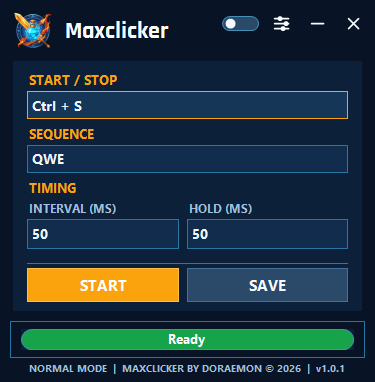
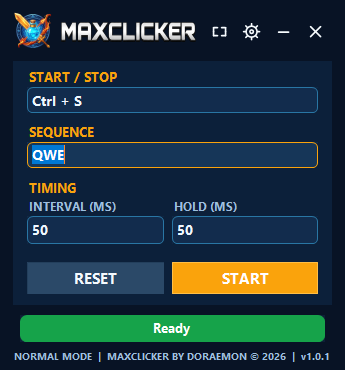
Add MaxPerformance download support and polish download buttons
Wires MaxPerformance into the release-fetching config (GitHub repo +
remote-config URL, Backblaze mirror pattern) and gives its Benchmark page
real Download/Mirror buttons via ReleasePanel, instead of only linking out
to MaxMacro. Excludes MaxPerformance from the Home page's two-app split
hero and nav's product-list map (it's a companion tool, not a main app -
both already have a dedicated entry point). Fixes the Mirror button's 94%
opacity reading as broken/transparent against brighter background art, and
adds a keyboard focus-visible style and loading shimmer to DownloadButton.
Adds a Settings screenshot to MaxClicker's tray/startup feature card.

diff --git a/src/components/ReleasePanel/DownloadButton.css b/src/components/ReleasePanel/DownloadButton.css
@@ -39,12 +39,59 @@
   transform: translateY(-2px) scale(1.02);
 }
 
+/* Matches the theme accent instead of relying on the browser's default blue
+   ring, which reads jarring against these dark gradient buttons. */
+.dl-button:focus-visible {
+  outline: 2px solid var(--accent, #fff);
+  outline-offset: 3px;
+}
+
 .dl-button[data-blob-failed="1"] {
   opacity: 0.85;
 }
 
 .dl-button[data-pending="1"] {
   opacity: 0.88;
+}
+
+.dl-button[data-disabled="1"] {
+  cursor: not-allowed;
+  opacity: 0.58;
+  pointer-events: auto;
+}
+
+.dl-button[data-disabled="1"]::after {
+  display: none;
+}
+
+.dl-button[data-disabled="1"]:hover {
+  transform: none;
+}
+
+/* ReleasePanel's initial loading skeleton renders buttons with both
+   pending and disabled set - a shimmer reads as "still loading" at a
+   glance, where the flat dimmed color it replaces was easy to mistake for
+   a broken/disabled control. */
+.dl-button[data-pending="1"][data-disabled="1"] {
+  background: linear-gradient(
+    90deg,
+    rgba(255, 255, 255, 0.05),
+    rgba(255, 255, 255, 0.14),
+    rgba(255, 255, 255, 0.05)
+  );
+  background-size: 200% 100%;
+  border-color: rgba(255, 255, 255, 0.1);
+  box-shadow: none;
+  animation: dl-skeleton-shimmer 1.4s ease-in-out infinite;
+}
+
+@keyframes dl-skeleton-shimmer {
+  0% {
+    background-position: 200% 0;
+  }
+  100% {
+    background-position: -200% 0;
+  }
 }
 
 .dl-button-caption {
@@ -82,7 +129,7 @@
 }
 
 .dl-button-mirror {
-  background: linear-gradient(180deg, rgba(250, 163, 12, 0.94), rgba(216, 120, 13, 0.94));
+  background: linear-gradient(180deg, rgb(250, 163, 12), rgb(216, 120, 13));
   box-shadow: 0 12px 26px rgba(250, 163, 12, 0.22);
 }
 

diff --git a/src/config/products.ts b/src/config/products.ts
@@ -24,18 +24,25 @@ import type { ProductReleaseConfig } from "../services/releaseFetcher";
 // below, instead of the repo name being hardcoded in multiple places.
 const MAXCLICKER_REPO = import.meta.env.VITE_MAXCLICKER_REPO || "crossgozon/maxclicker-download";
 const MAXMACRO_REPO = import.meta.env.VITE_MAXMACRO_REPO || "crossgozon/maxmacro-download";
+const MAXPERFORMANCE_REPO = import.meta.env.VITE_MAXPERFORMANCE_REPO || "crossgozon/maxperformance-download";
 const MAXCLICKER_REMOTE_CONFIG_URL =
   import.meta.env.VITE_MAXCLICKER_REMOTE_CONFIG_URL ||
   "https://api.maxie-apps.online/api/remote-config";
 const MAXMACRO_REMOTE_CONFIG_URL =
   import.meta.env.VITE_MAXMACRO_REMOTE_CONFIG_URL ||
   "https://api.maxmacro.maxie-apps.online/api/remote-config";
+// MaxPerformance has no dedicated Worker subdomain (unlike MaxMacro) - it
+// shares MaxClicker's api.maxie-apps.online Worker, disambiguated by the
+// ?appId= query param the Worker already reads (see resolveRequestAppIdOverride).
+const MAXPERFORMANCE_REMOTE_CONFIG_URL =
+  import.meta.env.VITE_MAXPERFORMANCE_REMOTE_CONFIG_URL ||
+  "https://api.maxie-apps.online/api/remote-config?appId=maxperformance";
 
 function rawGithubUrl(repo: string, path: string) {
   return `https://raw.githubusercontent.com/${repo}/main/${path}`;
 }
 
-export type ProductSlug = "maxclicker" | "maxmacro";
+export type ProductSlug = "maxclicker" | "maxmacro" | "maxperformance";
 
 export interface ProductFeature {
   title: string;
@@ -116,6 +123,7 @@ export const products: Record<ProductSlug, ProductConfig> = {
         title: "Tray integration & startup options",
         description: "Launch at Windows startup, start minimized to tray, and choose whether minimize/close send the app to the tray instead of closing it.",
         icon: faDesktop,
+        images: [{ src: "/assets/maxclicker/screenshots/settings.png", caption: "Settings" }],
       },
       {
         title: "Run diagnostics",
@@ -241,6 +249,30 @@ export const products: Record<ProductSlug, ProductConfig> = {
       excludeAssetRegex: /updater/i,
       mirrorCommentTag: "MAXMACRO_RELEASE_MIRRORS",
       mirrorUrlPattern: /^https:\/\/backblaze\.maxmacro\.maxie-apps\.online\/maxmacro\/Release\/[^/]+\/[^/]+\.zip$/i,
+    },
+  },
+  // MaxPerformance's own page (src/pages/Benchmark) renders its own hero/
+  // highlight layout rather than going through ProductDownloadPage, so this
+  // entry only needs to carry what ReleasePanel actually reads (name,
+  // release config) - features/systemRequirements stay empty on purpose.
+  maxperformance: {
+    slug: "maxperformance",
+    name: "MaxPerformance",
+    tagline: "Official Build",
+    description:
+      "MaxPerformance captures real keyboard and mouse input timing, scores stability and warm-up accuracy, and compares runs side by side.",
+    heroHook:
+      "Millisecond-precise input capture and side-by-side run comparison, built for tuning macro timing.",
+    theme: "maxperformance",
+    iconUrl: "/assets/maxperformance/icon.png",
+    wordmarkUrl: "/assets/maxperformance/header_title.png",
+    features: [],
+    release: {
+      repo: MAXPERFORMANCE_REPO,
+      remoteConfigUrls: [MAXPERFORMANCE_REMOTE_CONFIG_URL],
+      assetNameRegex: /^MaxPerformance\..+\.zip$/i,
+      mirrorCommentTag: "MAXPERFORMANCE_RELEASE_MIRRORS",
+      mirrorUrlPattern: /^https:\/\/backblaze\.maxie-apps\.online\/maxperformance\/Release\/[^/]+\/[^/]+\.zip$/i,
     },
   },
 };

diff --git a/src/components/ReleasePanel/ReleasePanel.tsx b/src/components/ReleasePanel/ReleasePanel.tsx
@@ -15,13 +15,10 @@ interface ReleasePanelProps {
 export function ReleasePanel({ product, showNotes = false }: ReleasePanelProps) {
   const state = useLatestRelease(product.release);
 
-  // Buttons render immediately and are clickable right away, pointed at the
-  // GitHub releases page as a working fallback - the release API (slow, and
-  // occasionally rate-limited) is only there to upgrade them in place to the
-  // exact per-version asset + mirror once it resolves, so the user is never
-  // stuck staring at empty space or a dead button while it loads.
+  // Buttons render immediately for layout stability, but stay disabled until
+  // the exact per-version asset URL resolves. We intentionally avoid sending
+  // download clicks to the GitHub release page.
   if (state.status === "loading") {
-    const fallbackUrl = `https://github.com/${product.release.repo}/releases/latest`;
     return (
       <div className="release-panel release-panel-loading" aria-live="polite">
         <div className="release-stats">
@@ -29,8 +26,8 @@ export function ReleasePanel({ product, showNotes = false }: ReleasePanelProps) 
           <div className="release-skeleton-line release-skeleton-stat" />
         </div>
         <div className="release-actions">
-          <DownloadButton url={fallbackUrl} label={`Download ${product.name}`} kind="github" pending />
-          <DownloadButton url={fallbackUrl} label="Mirror Download" kind="mirror" pending />
+          <DownloadButton url="" label={`Download ${product.name}`} kind="github" pending disabled />
+          <DownloadButton url="" label="Mirror Download" kind="mirror" pending disabled />
         </div>
       </div>
     );
@@ -39,15 +36,7 @@ export function ReleasePanel({ product, showNotes = false }: ReleasePanelProps) 
   if (state.status === "error") {
     return (
       <div className="release-panel release-panel-error" role="alert">
-        <p>Could not read the latest release right now. Check back later or view it directly on GitHub.</p>
-        <a
-          className="btn btn-secondary"
-          href={`https://github.com/${product.release.repo}/releases/latest`}
-          target="_blank"
-          rel="noopener noreferrer"
-        >
-          View on GitHub
-        </a>
+        <p>Could not read the latest release right now. Check back later.</p>
       </div>
     );
   }
@@ -56,14 +45,6 @@ export function ReleasePanel({ product, showNotes = false }: ReleasePanelProps) 
     return (
       <div className="release-panel release-panel-empty">
         <p>No {product.name} release has been published yet. Check back soon.</p>
-        <a
-          className="btn btn-secondary"
-          href={`https://github.com/${product.release.repo}/releases`}
-          target="_blank"
-          rel="noopener noreferrer"
-        >
-          View releases on GitHub
-        </a>
       </div>
     );
   }

diff --git a/src/components/Layout/Nav.tsx b/src/components/Layout/Nav.tsx
@@ -41,17 +41,23 @@ export function Nav() {
             <FontAwesomeIcon icon={faHouse} />
             Home
           </NavLink>
-          {productList.map((product) => (
-            <NavLink
-              key={product.slug}
-              to={`/${product.slug}`}
-              className={navLinkClass}
-              onClick={() => setMenuOpen(false)}
-            >
-              <FontAwesomeIcon icon={faGamepad} />
-              {product.name}
-            </NavLink>
-          ))}
+          {/* MaxPerformance is deliberately excluded here - it has its own
+              dedicated link below (chart icon fits it better than the
+              gamepad icon used for the automation apps), so including it
+              in this product-registry map would render it twice. */}
+          {productList
+            .filter((product) => product.slug !== "maxperformance")
+            .map((product) => (
+              <NavLink
+                key={product.slug}
+                to={`/${product.slug}`}
+                className={navLinkClass}
+                onClick={() => setMenuOpen(false)}
+              >
+                <FontAwesomeIcon icon={faGamepad} />
+                {product.name}
+              </NavLink>
+            ))}
           <NavLink to="/maxperformance" className={navLinkClass} onClick={() => setMenuOpen(false)}>
             <FontAwesomeIcon icon={faChartLine} />
             MaxPerformance

diff --git a/src/components/ReleasePanel/DownloadButton.tsx b/src/components/ReleasePanel/DownloadButton.tsx
@@ -15,6 +15,7 @@ interface DownloadButtonProps {
    * instead of navigating to it).
    */
   pending?: boolean;
+  disabled?: boolean;
 }
 
 /**
@@ -26,7 +27,7 @@ interface DownloadButtonProps {
 /** How long a click made while still pending waits for the real URL before giving up and using the fallback. */
 const CLICK_GRACE_MS = 4000;
 
-export function DownloadButton({ url, fileName, label, kind, pending = false }: DownloadButtonProps) {
+export function DownloadButton({ url, fileName, label, kind, pending = false, disabled = false }: DownloadButtonProps) {
   const [blobUrl, setBlobUrl] = useState<string | null>(null);
   const [blobFailed, setBlobFailed] = useState(false);
   const [awaiting, setAwaiting] = useState(false);
@@ -39,7 +40,7 @@ export function DownloadButton({ url, fileName, label, kind, pending = false }: 
   // click against it, only falling back if the API genuinely doesn't
   // resolve in time.
   useEffect(() => {
-    if (!awaiting) {
+    if (!awaiting || disabled) {
       return;
     }
 
@@ -55,9 +56,14 @@ export function DownloadButton({ url, fileName, label, kind, pending = false }: 
     }, CLICK_GRACE_MS);
 
     return () => clearTimeout(timer);
-  }, [awaiting, pending, url]);
+  }, [awaiting, pending, url, disabled]);
 
   function handleClick(event: React.MouseEvent<HTMLAnchorElement>) {
+    if (disabled) {
+      event.preventDefault();
+      return;
+    }
+
     if (!pending || awaiting) {
       return;
     }
@@ -66,7 +72,7 @@ export function DownloadButton({ url, fileName, label, kind, pending = false }: 
   }
 
   useEffect(() => {
-    if (pending) {
+    if (pending || disabled) {
       return;
     }
 
@@ -102,19 +108,20 @@ export function DownloadButton({ url, fileName, label, kind, pending = false }: 
         revokeRef.current = null;
       }
     };
-  }, [url, pending]);
+  }, [url, pending, disabled]);
 
   return (
     <a
       ref={anchorRef}
       className={`dl-button dl-button-${kind}`}
-      href={pending ? url : blobUrl ?? url}
-      download={pending ? undefined : fileName}
-      target={pending ? "_blank" : undefined}
-      rel={pending ? "noopener noreferrer" : "noopener"}
+      href={disabled ? undefined : blobUrl ?? url}
+      download={pending || disabled ? undefined : fileName}
+      rel="noopener"
       onClick={handleClick}
       aria-busy={awaiting || undefined}
+      aria-disabled={disabled || undefined}
       data-pending={pending ? "1" : undefined}
+      data-disabled={disabled ? "1" : undefined}
       data-awaiting={awaiting ? "1" : undefined}
       data-blob-ready={blobUrl ? "1" : undefined}
       data-blob-failed={blobFailed ? "1" : undefined}

diff --git a/src/pages/Home/Home.tsx b/src/pages/Home/Home.tsx
@@ -12,9 +12,14 @@ import "./Home.css";
 // and holding off on mounting the animated content until they're actually
 // ready means "mount = animate" stays true - the reveal only plays once
 // there's something real to reveal.
+// MaxPerformance is a sub-application (a companion benchmarking tool, not a
+// main app on its own), so it's excluded from the Home page's two-door
+// split hero - that layout is built for exactly two peer apps.
+const mainApps = productList.filter((product) => product.slug !== "maxperformance");
+
 function getHeroImageUrls(): string[] {
   const urls = ["/assets/maxie-badge.png"];
-  for (const product of productList) {
+  for (const product of mainApps) {
     urls.push(product.iconUrl);
     if (product.wordmarkUrl) urls.push(product.wordmarkUrl);
   }
@@ -54,7 +59,7 @@ export function Home() {
       <div className="home-hero-orb home-hero-orb-amber" aria-hidden="true" />
 
       <section className="home-split">
-        {productList.map((product, index) => (
+        {mainApps.map((product, index) => (
           <ThemeScope
             key={product.slug}
             theme={product.theme}

diff --git a/src/pages/Benchmark/Benchmark.tsx b/src/pages/Benchmark/Benchmark.tsx
@@ -10,6 +10,8 @@ import {
 } from "@fortawesome/free-solid-svg-icons";
 import { ThemeScope } from "../../theme/ThemeProvider";
 import { Lightbox, type LightboxImage } from "../../components/Lightbox/Lightbox";
+import { ReleasePanel } from "../../components/ReleasePanel/ReleasePanel";
+import { products } from "../../config/products";
 import "../../components/common/Button.css";
 import "./Benchmark.css";
 
@@ -56,6 +58,7 @@ export function Benchmark() {
           accuracy, and compares runs side by side - so you know exactly how your macro setup performs,
           instead of guessing.
         </p>
+        <ReleasePanel product={products.maxperformance} />
       </div>
 
       <section className="benchmark-highlights">
@@ -87,12 +90,11 @@ export function Benchmark() {
       </section>
 
       {/* MaxMacro's own crimson theme on purpose, not the page's blue -
-          a visual cue that this button leads over to MaxMacro's page. */}
+          a visual cue that this link leads over to MaxMacro's page. */}
       <ThemeScope theme="maxmacro" as="section" className="benchmark-cta gv-fade-up">
         <img src="/assets/maxmacro/icon.png" alt="" width={40} height={40} className="benchmark-cta-icon" />
         <p>
-          MAXPERFORMANCE is its own download —<br />
-          built by the same team behind MaxMacro.
+          Built by the same team behind MaxMacro.
         </p>
         <Link to="/maxmacro" className="btn btn-primary">
           Get MaxMacro →

diff --git a/src/pages/About/About.css b/src/pages/About/About.css
@@ -34,7 +34,7 @@
 }
 
 .about-badge {
-  width: min(50%, 190px);
+  width: min(50%, 360px);
   height: auto;
   margin-bottom: 8px;
   filter: drop-shadow(0 12px 28px rgba(0, 0, 0, 0.55));

diff --git a/src/services/releaseFetcher.ts b/src/services/releaseFetcher.ts
@@ -154,7 +154,7 @@ function parseRemoteDownloadConfig(remoteConfig: RemoteDownloadConfig, config: P
     assetSizeBytes,
     assetUrl,
     notes: null,
-    releasePageUrl: String(remoteConfig.downloadPageUrl || "").trim() || `https://github.com/${config.repo}/releases/latest`,
+    releasePageUrl: String(remoteConfig.downloadPageUrl || "").trim(),
     mirror: findRemoteMirror(remoteConfig, config),
   };
 }